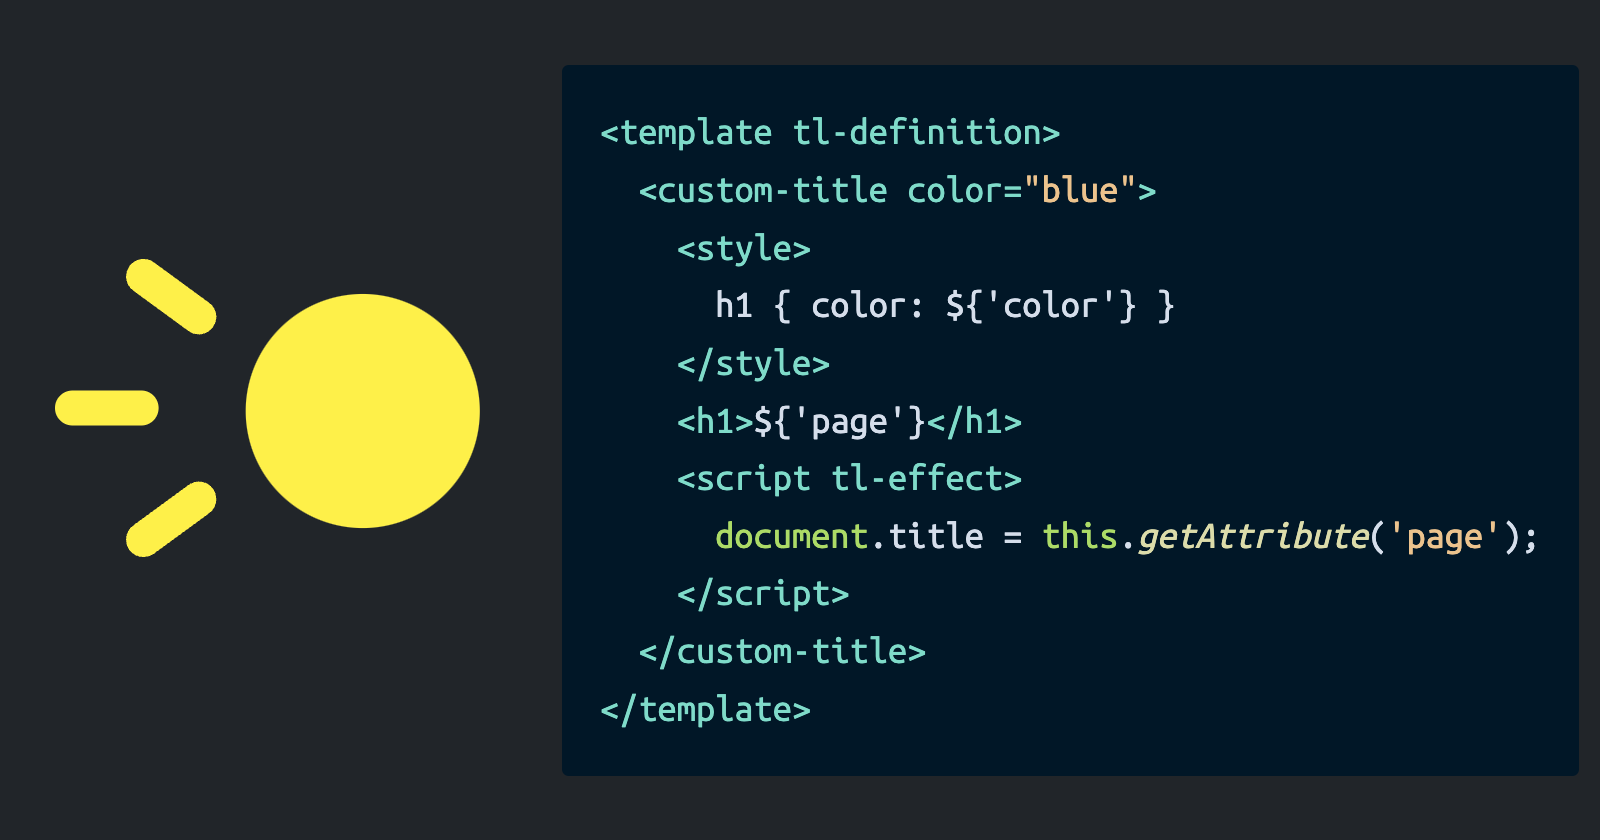
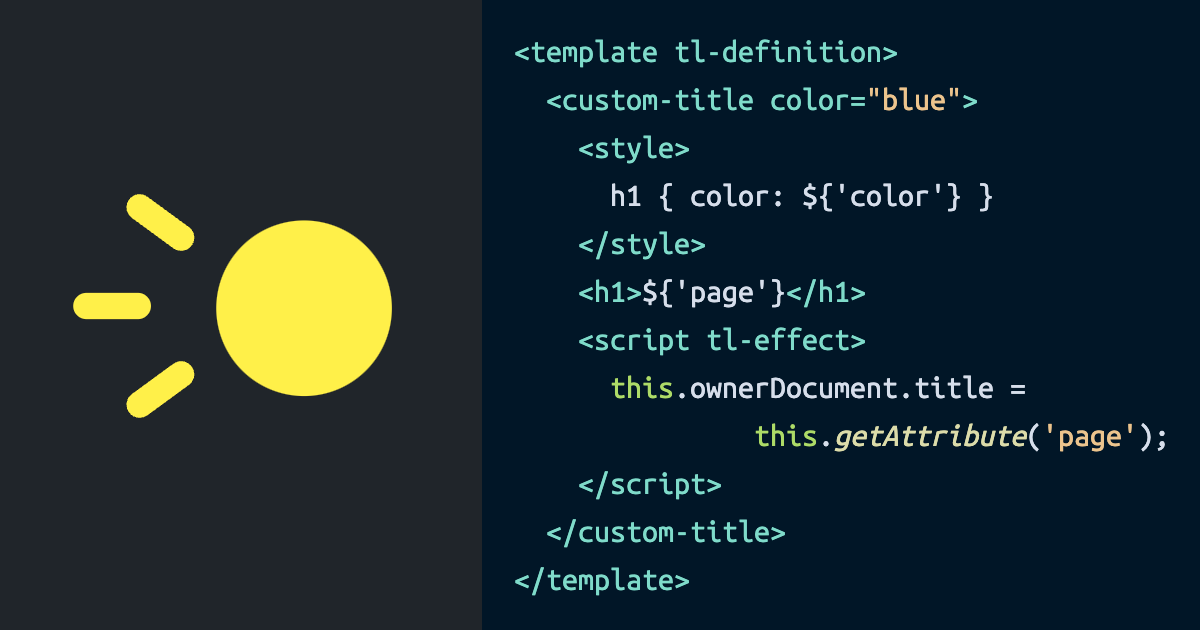
new preview image

Changed region(s): [[0.0617, 0.0, 1.0, 1.0], [0.0308, 0.4524, 0.1233, 0.5127]]

diff --git a/docs/pages/preview.html b/docs/pages/preview.html
@@ -3,7 +3,7 @@
 		display: inline-flex;
 		align-items: center;
 		/* border: yellow solid 1px; */
-		font-size: 1.8em;
+		font-size: 2em;
 
 		/* 1200x630 is the recommended meta image resolution */
 		width: 1200px;
@@ -11,7 +11,8 @@
 	}
 
 	preview-section img {
-		margin-right: -1em;
+		margin-right: 0em;
+		margin-left: 1em;
 	}
 </style>
 <!-- to use, right click on the node in the element explorer, and "capture node screenshot"-->
@@ -26,7 +27,9 @@
 					</style>
 					<h1>${'page'}</h1>
 					<script tl-effect>
-						document.title = this.getAttribute('page');
+						// prettier-ignore
+						this.ownerDocument.title =
+						         this.getAttribute('page');
 					</script>
 				</custom-title>
 			</template>
